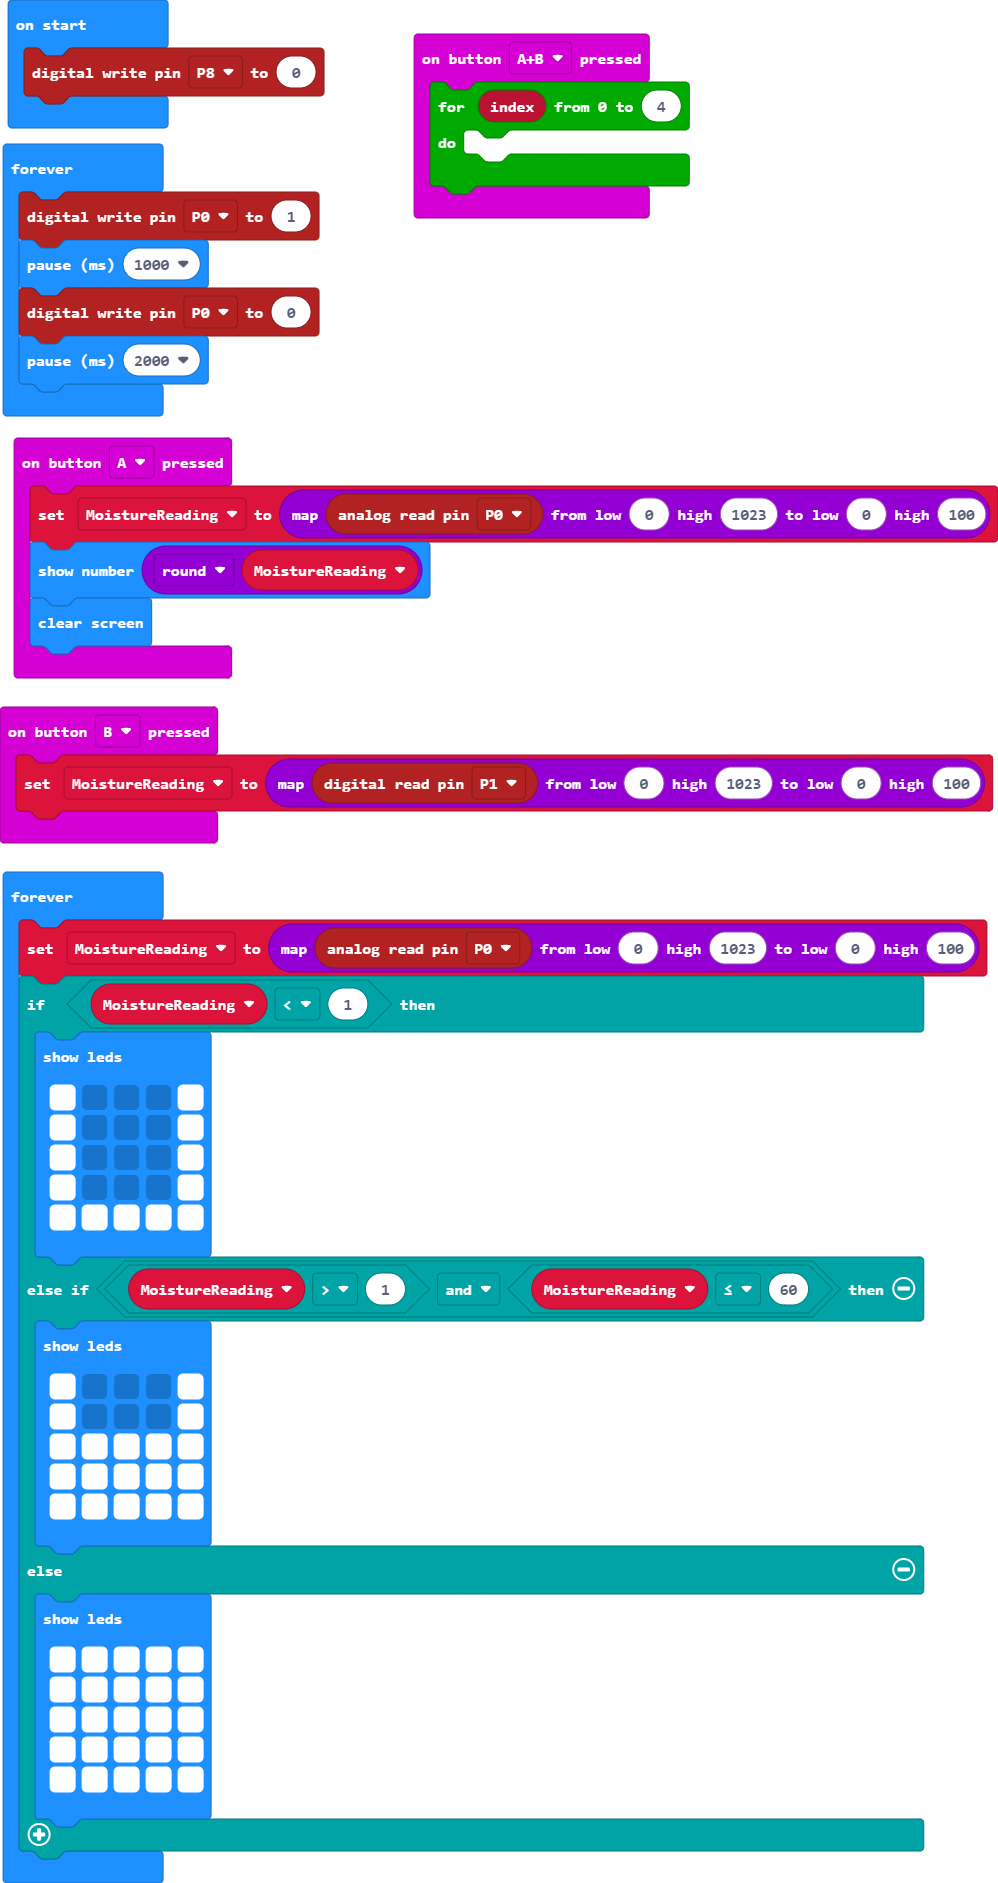
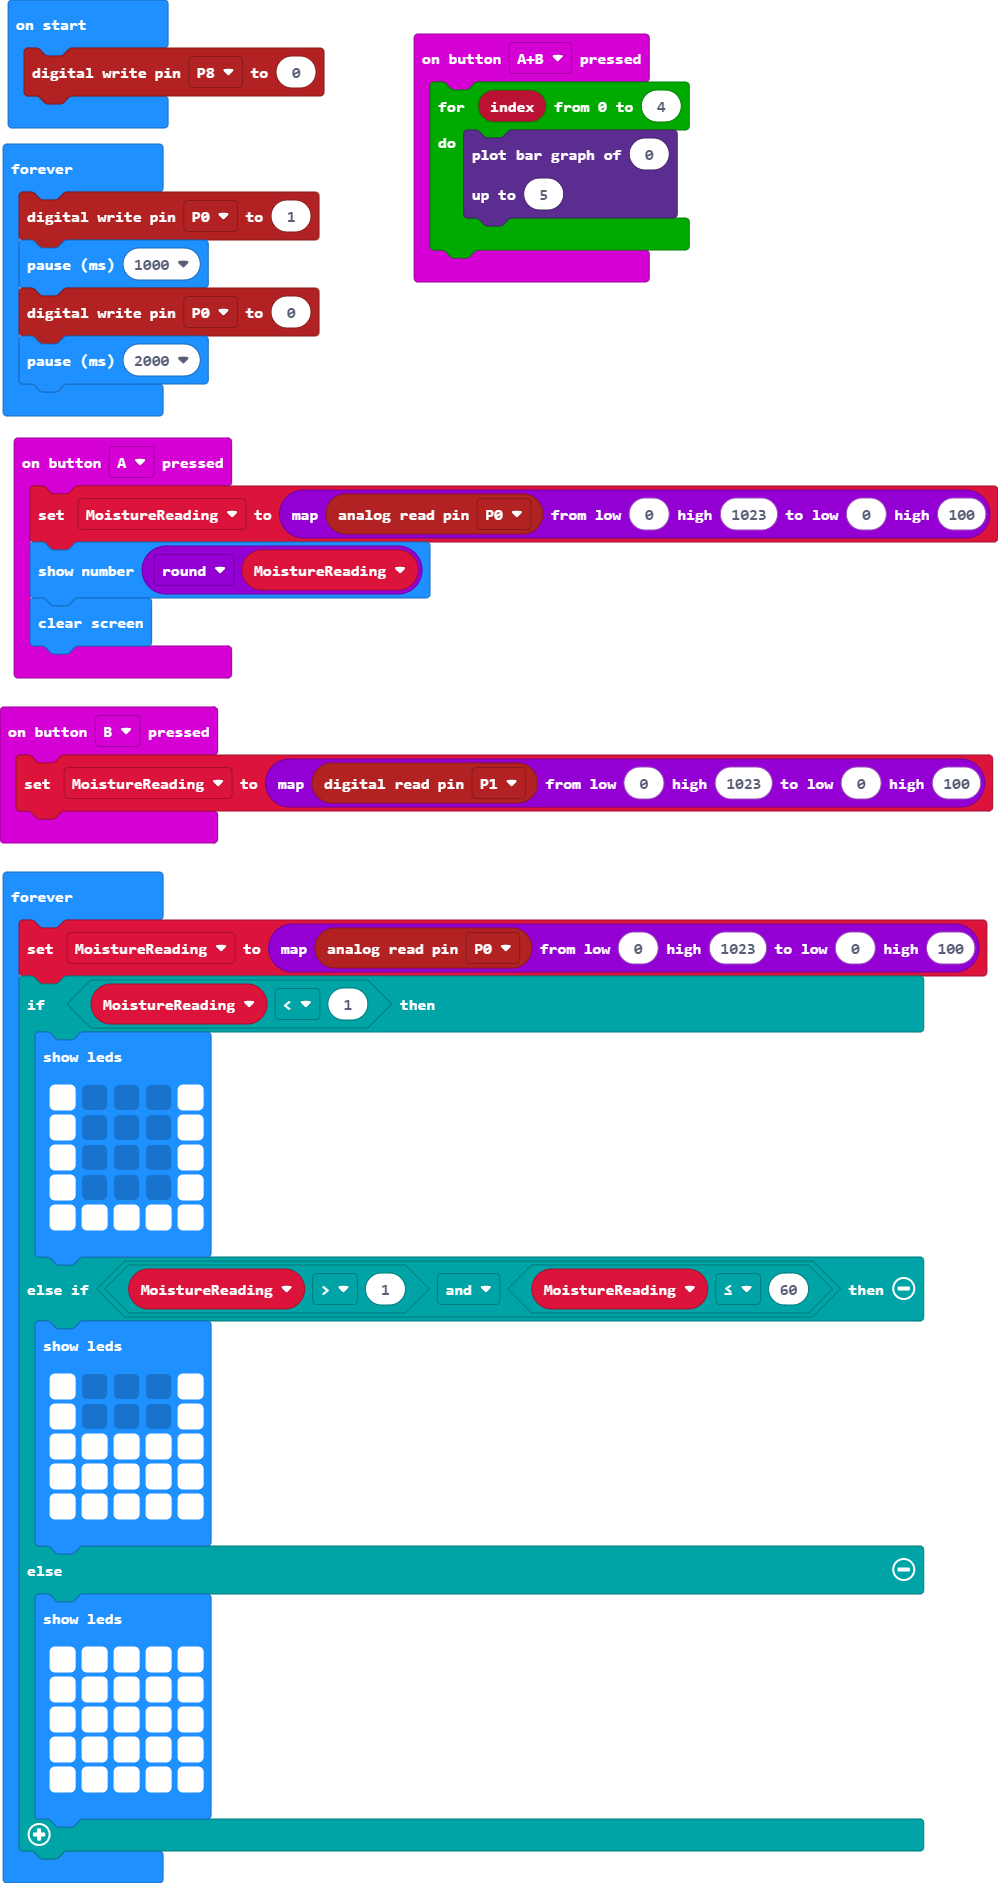
Update main.blocks, main.ts

Changed region(s): [[0.4038, 0.0616, 0.7144, 0.154]]

diff --git a/main.ts b/main.ts
@@ -5,7 +5,10 @@ input.onButtonPressed(Button.A, function () {
 })
 input.onButtonPressed(Button.AB, function () {
     for (let index = 0; index <= 4; index++) {
-    	
+        led.plotBarGraph(
+        0,
+        5
+        )
     }
 })
 input.onButtonPressed(Button.B, function () {
